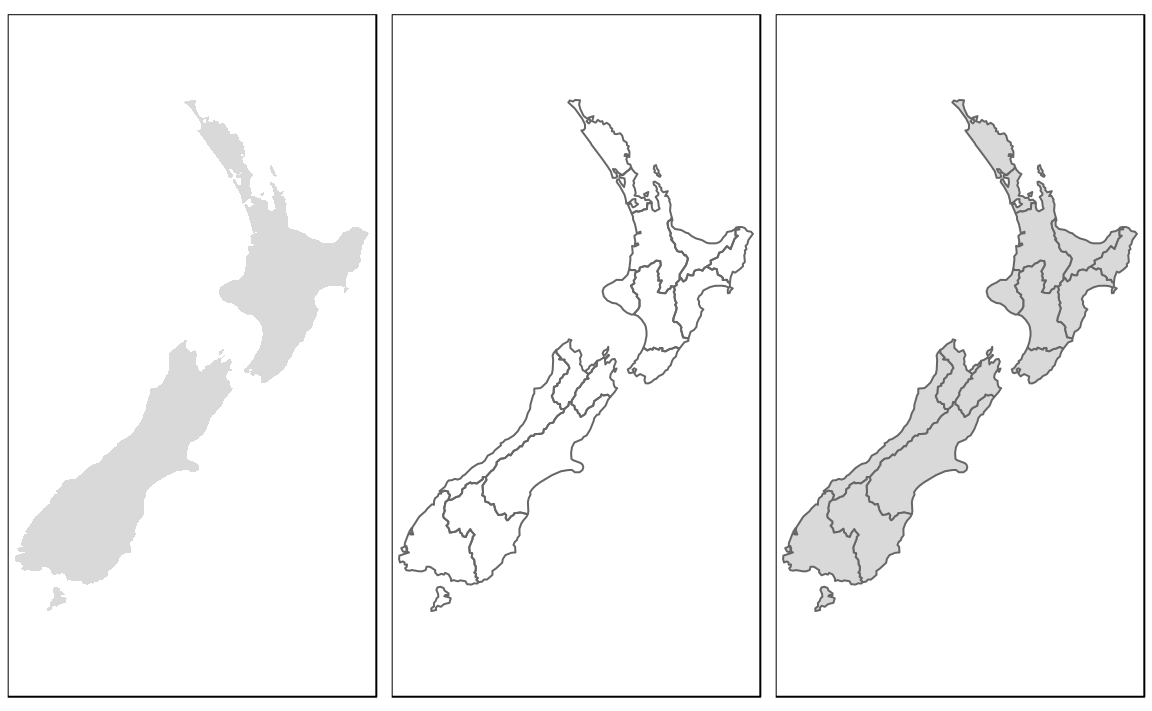
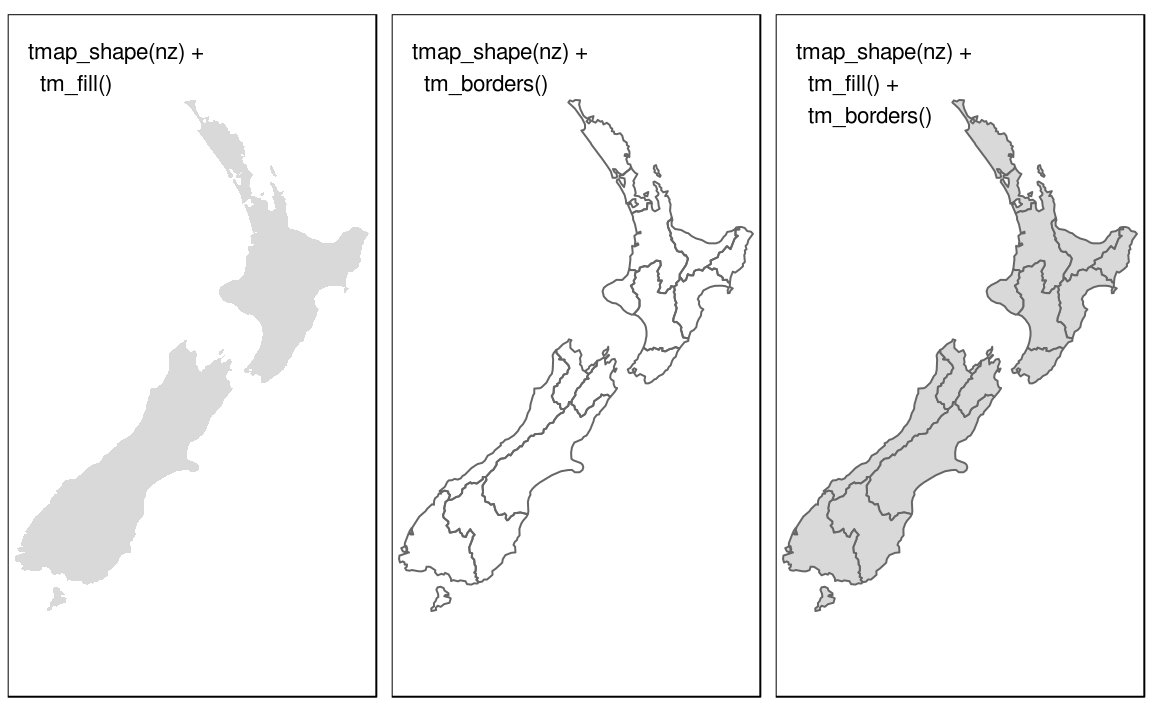
Updating book (2699)

diff --git a/adv-map.html b/adv-map.html
@@ -372,14 +372,12 @@ code > span.in { color: #60a0b0; font-weight: bold; font-style: italic; } /* Inf
 <div id="basics" class="section level3">
 <h3><span class="header-section-number">9.2.1</span> Basics</h3>
 <p><strong>tmap</strong> generates maps with sensible defaults for a wide range of spatial objects with <code>tm_shape()</code> (which accepts raster and vector objects), followed by one or more layer elements such as <code>tm_fill()</code> and <code>tm_border()</code>. These functions are used singularly and in combination in the code chunk below, which generates Figure <a href="adv-map.html#fig:tmshape">9.1</a>:</p>
-<div class="sourceCode"><pre class="sourceCode r"><code class="sourceCode r"><span class="kw">library</span>(tmap)
-<span class="co"># Add fill layer to nz shape</span>
-m1 =<span class="st"> </span><span class="kw">tm_shape</span>(nz) +<span class="st"> </span><span class="kw">tm_fill</span>() 
+<div class="sourceCode"><pre class="sourceCode r"><code class="sourceCode r"><span class="co"># Add fill layer to nz shape</span>
+<span class="kw">tm_shape</span>(nz) +<span class="st"> </span><span class="kw">tm_fill</span>() 
 <span class="co"># Add border layer to nz shape</span>
-m2 =<span class="st"> </span><span class="kw">tm_shape</span>(nz) +<span class="st"> </span><span class="kw">tm_borders</span>() 
+<span class="kw">tm_shape</span>(nz) +<span class="st"> </span><span class="kw">tm_borders</span>() 
 <span class="co"># Add fill and border layers to nz shape</span>
-m3 =<span class="st"> </span><span class="kw">tm_shape</span>(nz) +<span class="st"> </span><span class="kw">tm_fill</span>() +<span class="st"> </span><span class="kw">tm_borders</span>() 
-<span class="kw">tmap_arrange</span>(m1, m2, m3, <span class="dt">nrow =</span> <span class="dv">1</span>)</code></pre></div>
+<span class="kw">tm_shape</span>(nz) +<span class="st"> </span><span class="kw">tm_fill</span>() +<span class="st"> </span><span class="kw">tm_borders</span>() </code></pre></div>
 <div class="figure" style="text-align: center"><span id="fig:tmshape"></span>
 <img src="figures/tmshape-1.png" alt="New Zealand's shape plotted with fill (left), border (middle) and fill *and* border (right) layers added using **tmap** functions." width="576" />
 <p class="caption">
@@ -387,6 +385,11 @@ Figure 9.1: New Zealand’s shape plotted with fill (left), border (middle) and 
 </p>
 </div>
 <p>The commands demonstrate how <strong>tmap</strong> works. First a ‘shape’ element is created by <code>tm_shape()</code> and then layers are iteratively added to the map. It is a flexible approach to map making because the common task of adding new layers to a map is a simple as adding <code>+</code> followed by a command that creates a new layer. This ‘layering’ is demonstrated by adding a border <em>on top of</em> the fill layer for <code>nz</code> in the third command of the previous code chunk (the order in which layers are added is the order in which they are rendered).</p>
+
+<div class="rmdnote">
+<code>qtm()</code> is a handy function for <strong>q</strong>uickly creating <strong>t</strong>map <strong>m</strong>aps (hence the snappy name). It is concise and provides a good default visualization in many cases: <code>qtm(nz)</code>, for example, is equivalent to <code>tm_shape(nz) + tm_fill() + tm_borders()</code>. Further, layers can be added concisely using multiple <code>qtm()</code> calls, such as <code>qtm(nz) + qtm(nz_height)</code>. The disadvantage is that it makes aesthetics of individual layers harder to control. While we advocate its use for quick interactive map creation, we avoid teaching it preferring clarity and control over conciseness.
+</div>
+<p></p>
 <!-- I'm not sure if we can fill it all in the book, but it could be worth to try these three packages on the same problems/data -->
 <!-- base plots (one example) -->
 <!-- ggplots  (geom_sf, coord_sf; one example)-->

diff --git a/main.md b/main.md
@@ -254,7 +254,7 @@ leaflet() %>%
 ```
 
 <div class="figure" style="text-align: center">
-preserve15cad5e64f0c0634
+preserve5af6aaa338cea5b6
 <p class="caption">(\#fig:interactive)Where the authors are from. The basemap is a tiled image of the Earth at Night provided by NASA. Interact with the online version at robinlovelace.net/geocompr, for example by zooming-in and clicking on the popups.</p>
 </div>
 
@@ -3084,7 +3084,7 @@ any(st_touches(cycle_hire, cycle_hire_osm, sparse = FALSE))
 
 
 <div class="figure" style="text-align: center">
-preserve426648c5bf1125c6
+preserveb8b17ed7d23a7d22
 <p class="caption">(\#fig:cycle-hire)The spatial distribution of cycle hire points in London based on official data (blue) and OpenStreetMap data (red).</p>
 </div>
 
@@ -5975,7 +5975,7 @@ The result of this code, visualized in Figure \@ref(fig:cycleways), identifies r
 Although other routes between zones are likely to be used --- in reality people do not travel to zone centroids or always use the shortest route algorithm for a particular mode --- the results demonstrate routes along which cycle paths could be prioritized.
 
 <div class="figure" style="text-align: center">
-preserve258f794bc75caf92
+preserve5c18c6d8982d3db4
 <p class="caption">(\#fig:cycleways)Potential routes along which to prioritise cycle infrastructure in Bristol, based on access key rail stations (red dots) and routes with many short car journeys (north of Bristol surrounding Stoke Bradley). Line thickness is proportional to number of trips.</p>
 </div>
 
@@ -6594,7 +6594,7 @@ result = sum(reclass)
 For instance, a score greater 9 might be a suitable threshold indicating raster cells where to place a bike shop (Figure \@ref(fig:bikeshop-berlin)).
 
 <div class="figure" style="text-align: center">
-preservefd5bc74391e62efc
+preservea52182775919ee68
 <p class="caption">(\#fig:bikeshop-berlin)Suitable areas (i.e., raster cells with a score > 9) in accordance with our hypothetical survey for bike stores in Berlin.</p>
 </div>
 
@@ -6728,14 +6728,12 @@ These functions are used singularly and in combination in the code chunk below, 
 
 
 ```r
-library(tmap)
 # Add fill layer to nz shape
-m1 = tm_shape(nz) + tm_fill() 
+tm_shape(nz) + tm_fill() 
 # Add border layer to nz shape
-m2 = tm_shape(nz) + tm_borders() 
+tm_shape(nz) + tm_borders() 
 # Add fill and border layers to nz shape
-m3 = tm_shape(nz) + tm_fill() + tm_borders() 
-tmap_arrange(m1, m2, m3, nrow = 1)
+tm_shape(nz) + tm_fill() + tm_borders() 
 ```
 
 <div class="figure" style="text-align: center">
@@ -6748,7 +6746,12 @@ First a 'shape' element is created by `tm_shape()` and then layers are iterative
 It is a flexible approach to map making because the common task of adding new layers to a map is a simple as adding `+` followed by a command that creates a new layer.
 This 'layering' is demonstrated by adding a border *on top of* the fill layer for `nz` in the third command of the previous code chunk (the order in which layers are added is the order in which they are rendered).
 
-
+\BeginKnitrBlock{rmdnote}<div class="rmdnote">`qtm()` is a handy function for **q**uickly creating **t**map **m**aps (hence the snappy name).
+It is concise and provides a good default visualization in many cases:
+`qtm(nz)`, for example, is equivalent to `tm_shape(nz) + tm_fill() + tm_borders()`.
+Further, layers can be added concisely using multiple `qtm()` calls, such as `qtm(nz) + qtm(nz_height)`.
+The disadvantage is that it makes aesthetics of individual layers harder to control.
+While we advocate its use for quick interactive map creation, we avoid teaching it preferring clarity and control over conciseness.</div>\EndKnitrBlock{rmdnote}
 
 <!-- I'm not sure if we can fill it all in the book, but it could be worth to try these three packages on the same problems/data -->
 <!-- base plots (one example) -->
